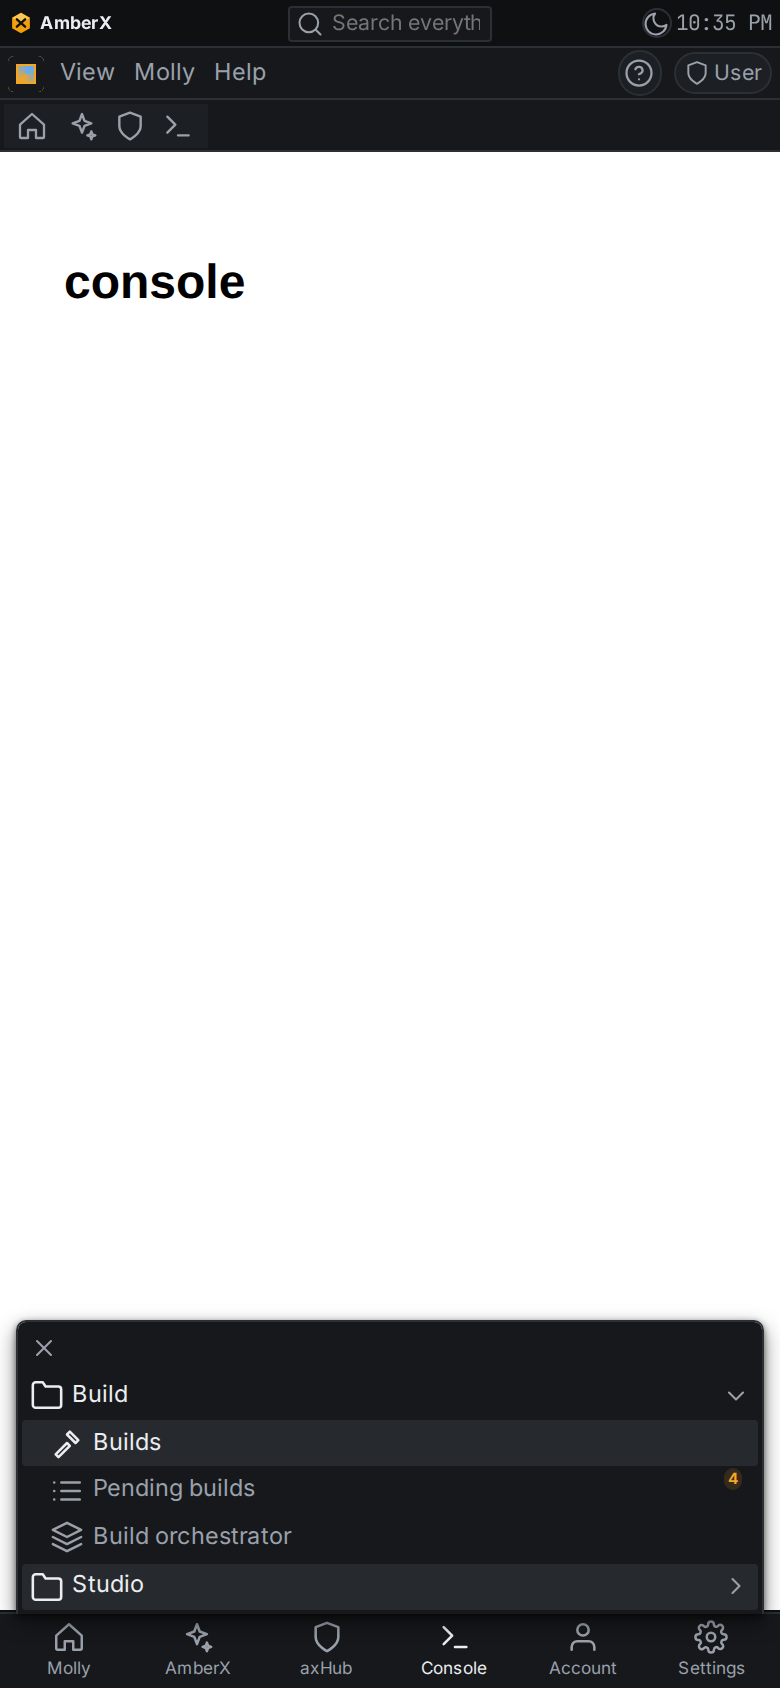
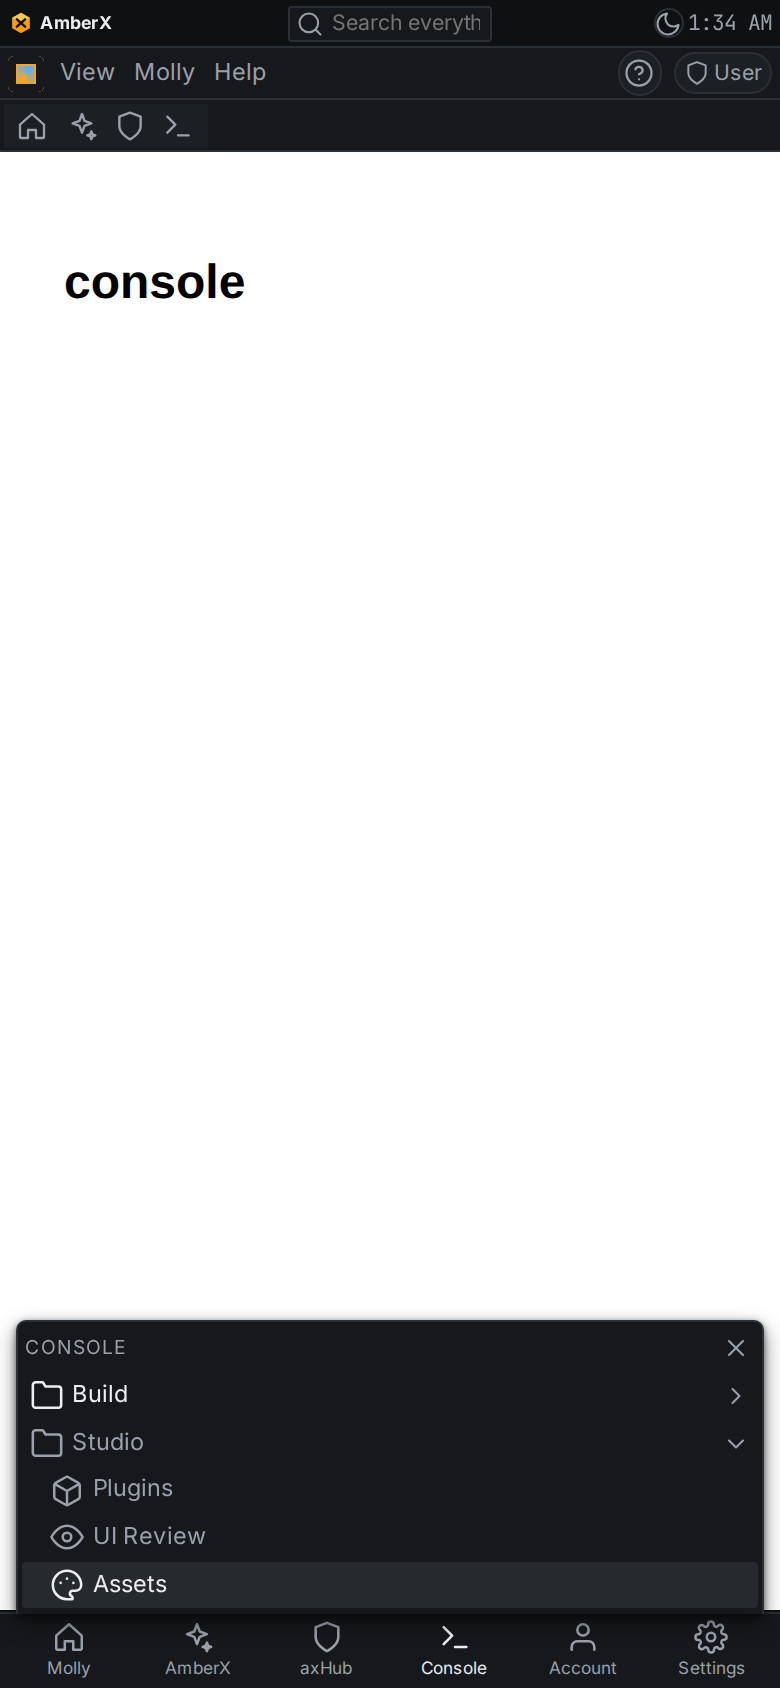
Molly nav: closing a sub menu stays closed; collapsed width from the font size
Follow-the-active-page now runs only when the page changes or its branch first appears,
so the phone sheet's Close and single mode inside a group work. Collapsed nav is
font size x 3.8 wide; collapse rules no longer touch the settings preview.

diff --git a/apps/amberx-droid/src/axf/ui/axf.css b/apps/amberx-droid/src/axf/ui/axf.css
@@ -579,11 +579,11 @@ button.fx-banner__badge:focus-visible { outline: 2px solid var(--fx-accent); out
 [data-fx-navs-set~='weight'] .fx-navs .fx-nav__item { font-weight: var(--fx-navs-weight); }
 [data-fx-navs-icons='off'] .fx-navs .fx-nav:not(.fx-nav--rail) .fx-nav__item > .fx-icon:first-child { display: none; }
 /* collapsed to icons: labels, chevrons, badges and sub menus fold away (a tap on a group opens the nav again) */
-[data-fx-navs-collapsed='on'] .fx-navs .fx-nav__text, [data-fx-navs-collapsed='on'] .fx-navs .fx-nav__label, [data-fx-navs-collapsed='on'] .fx-navs .fx-nav__header,
-[data-fx-navs-collapsed='on'] .fx-navs .fx-nav__chev, [data-fx-navs-collapsed='on'] .fx-navs .fx-nav__badge, [data-fx-navs-collapsed='on'] .fx-navs .fx-nav__sub { display: none; }
-[data-fx-navs-collapsed='on'] .fx-navs .fx-nav { padding-inline: var(--fx-dens-gap-md); align-items: stretch; }
-[data-fx-navs-collapsed='on'] .fx-navs .fx-nav__item { justify-content: center; padding-inline: 0; }
-[data-fx-navs-collapsed='on'] .fx-navs .fx-nav__head { justify-content: center; }
+[data-fx-navs-collapsed='on'] .fx-region--nav .fx-navs .fx-nav__text, [data-fx-navs-collapsed='on'] .fx-region--nav .fx-navs .fx-nav__label, [data-fx-navs-collapsed='on'] .fx-region--nav .fx-navs .fx-nav__header,
+[data-fx-navs-collapsed='on'] .fx-region--nav .fx-navs .fx-nav__chev, [data-fx-navs-collapsed='on'] .fx-region--nav .fx-navs .fx-nav__badge, [data-fx-navs-collapsed='on'] .fx-region--nav .fx-navs .fx-nav__sub { display: none; }
+[data-fx-navs-collapsed='on'] .fx-region--nav .fx-navs .fx-nav { padding-inline: var(--fx-dens-gap-md); align-items: stretch; }
+[data-fx-navs-collapsed='on'] .fx-region--nav .fx-navs .fx-nav__item { justify-content: center; padding-inline: 0; }
+[data-fx-navs-collapsed='on'] .fx-region--nav .fx-navs .fx-nav__head { justify-content: center; }
 /* the resize edge */
 .fx-nav__resize { position: absolute; top: 0; bottom: 0; right: calc(var(--fx-space) * -0.5); width: var(--fx-space); cursor: col-resize; z-index: 2; }
 .fx-region--nav[data-side='right'] .fx-nav__resize { right: auto; left: calc(var(--fx-space) * -0.5); }

diff --git a/apps/axhub-web/src/axf/ui/axf.css b/apps/axhub-web/src/axf/ui/axf.css
@@ -579,11 +579,11 @@ button.fx-banner__badge:focus-visible { outline: 2px solid var(--fx-accent); out
 [data-fx-navs-set~='weight'] .fx-navs .fx-nav__item { font-weight: var(--fx-navs-weight); }
 [data-fx-navs-icons='off'] .fx-navs .fx-nav:not(.fx-nav--rail) .fx-nav__item > .fx-icon:first-child { display: none; }
 /* collapsed to icons: labels, chevrons, badges and sub menus fold away (a tap on a group opens the nav again) */
-[data-fx-navs-collapsed='on'] .fx-navs .fx-nav__text, [data-fx-navs-collapsed='on'] .fx-navs .fx-nav__label, [data-fx-navs-collapsed='on'] .fx-navs .fx-nav__header,
-[data-fx-navs-collapsed='on'] .fx-navs .fx-nav__chev, [data-fx-navs-collapsed='on'] .fx-navs .fx-nav__badge, [data-fx-navs-collapsed='on'] .fx-navs .fx-nav__sub { display: none; }
-[data-fx-navs-collapsed='on'] .fx-navs .fx-nav { padding-inline: var(--fx-dens-gap-md); align-items: stretch; }
-[data-fx-navs-collapsed='on'] .fx-navs .fx-nav__item { justify-content: center; padding-inline: 0; }
-[data-fx-navs-collapsed='on'] .fx-navs .fx-nav__head { justify-content: center; }
+[data-fx-navs-collapsed='on'] .fx-region--nav .fx-navs .fx-nav__text, [data-fx-navs-collapsed='on'] .fx-region--nav .fx-navs .fx-nav__label, [data-fx-navs-collapsed='on'] .fx-region--nav .fx-navs .fx-nav__header,
+[data-fx-navs-collapsed='on'] .fx-region--nav .fx-navs .fx-nav__chev, [data-fx-navs-collapsed='on'] .fx-region--nav .fx-navs .fx-nav__badge, [data-fx-navs-collapsed='on'] .fx-region--nav .fx-navs .fx-nav__sub { display: none; }
+[data-fx-navs-collapsed='on'] .fx-region--nav .fx-navs .fx-nav { padding-inline: var(--fx-dens-gap-md); align-items: stretch; }
+[data-fx-navs-collapsed='on'] .fx-region--nav .fx-navs .fx-nav__item { justify-content: center; padding-inline: 0; }
+[data-fx-navs-collapsed='on'] .fx-region--nav .fx-navs .fx-nav__head { justify-content: center; }
 /* the resize edge */
 .fx-nav__resize { position: absolute; top: 0; bottom: 0; right: calc(var(--fx-space) * -0.5); width: var(--fx-space); cursor: col-resize; z-index: 2; }
 .fx-region--nav[data-side='right'] .fx-nav__resize { right: auto; left: calc(var(--fx-space) * -0.5); }

diff --git a/apps/console-web/src/axf/ui/axf.css b/apps/console-web/src/axf/ui/axf.css
@@ -579,11 +579,11 @@ button.fx-banner__badge:focus-visible { outline: 2px solid var(--fx-accent); out
 [data-fx-navs-set~='weight'] .fx-navs .fx-nav__item { font-weight: var(--fx-navs-weight); }
 [data-fx-navs-icons='off'] .fx-navs .fx-nav:not(.fx-nav--rail) .fx-nav__item > .fx-icon:first-child { display: none; }
 /* collapsed to icons: labels, chevrons, badges and sub menus fold away (a tap on a group opens the nav again) */
-[data-fx-navs-collapsed='on'] .fx-navs .fx-nav__text, [data-fx-navs-collapsed='on'] .fx-navs .fx-nav__label, [data-fx-navs-collapsed='on'] .fx-navs .fx-nav__header,
-[data-fx-navs-collapsed='on'] .fx-navs .fx-nav__chev, [data-fx-navs-collapsed='on'] .fx-navs .fx-nav__badge, [data-fx-navs-collapsed='on'] .fx-navs .fx-nav__sub { display: none; }
-[data-fx-navs-collapsed='on'] .fx-navs .fx-nav { padding-inline: var(--fx-dens-gap-md); align-items: stretch; }
-[data-fx-navs-collapsed='on'] .fx-navs .fx-nav__item { justify-content: center; padding-inline: 0; }
-[data-fx-navs-collapsed='on'] .fx-navs .fx-nav__head { justify-content: center; }
+[data-fx-navs-collapsed='on'] .fx-region--nav .fx-navs .fx-nav__text, [data-fx-navs-collapsed='on'] .fx-region--nav .fx-navs .fx-nav__label, [data-fx-navs-collapsed='on'] .fx-region--nav .fx-navs .fx-nav__header,
+[data-fx-navs-collapsed='on'] .fx-region--nav .fx-navs .fx-nav__chev, [data-fx-navs-collapsed='on'] .fx-region--nav .fx-navs .fx-nav__badge, [data-fx-navs-collapsed='on'] .fx-region--nav .fx-navs .fx-nav__sub { display: none; }
+[data-fx-navs-collapsed='on'] .fx-region--nav .fx-navs .fx-nav { padding-inline: var(--fx-dens-gap-md); align-items: stretch; }
+[data-fx-navs-collapsed='on'] .fx-region--nav .fx-navs .fx-nav__item { justify-content: center; padding-inline: 0; }
+[data-fx-navs-collapsed='on'] .fx-region--nav .fx-navs .fx-nav__head { justify-content: center; }
 /* the resize edge */
 .fx-nav__resize { position: absolute; top: 0; bottom: 0; right: calc(var(--fx-space) * -0.5); width: var(--fx-space); cursor: col-resize; z-index: 2; }
 .fx-region--nav[data-side='right'] .fx-nav__resize { right: auto; left: calc(var(--fx-space) * -0.5); }

diff --git a/apps/molly/src/axf/ui/axf.css b/apps/molly/src/axf/ui/axf.css
@@ -579,11 +579,11 @@ button.fx-banner__badge:focus-visible { outline: 2px solid var(--fx-accent); out
 [data-fx-navs-set~='weight'] .fx-navs .fx-nav__item { font-weight: var(--fx-navs-weight); }
 [data-fx-navs-icons='off'] .fx-navs .fx-nav:not(.fx-nav--rail) .fx-nav__item > .fx-icon:first-child { display: none; }
 /* collapsed to icons: labels, chevrons, badges and sub menus fold away (a tap on a group opens the nav again) */
-[data-fx-navs-collapsed='on'] .fx-navs .fx-nav__text, [data-fx-navs-collapsed='on'] .fx-navs .fx-nav__label, [data-fx-navs-collapsed='on'] .fx-navs .fx-nav__header,
-[data-fx-navs-collapsed='on'] .fx-navs .fx-nav__chev, [data-fx-navs-collapsed='on'] .fx-navs .fx-nav__badge, [data-fx-navs-collapsed='on'] .fx-navs .fx-nav__sub { display: none; }
-[data-fx-navs-collapsed='on'] .fx-navs .fx-nav { padding-inline: var(--fx-dens-gap-md); align-items: stretch; }
-[data-fx-navs-collapsed='on'] .fx-navs .fx-nav__item { justify-content: center; padding-inline: 0; }
-[data-fx-navs-collapsed='on'] .fx-navs .fx-nav__head { justify-content: center; }
+[data-fx-navs-collapsed='on'] .fx-region--nav .fx-navs .fx-nav__text, [data-fx-navs-collapsed='on'] .fx-region--nav .fx-navs .fx-nav__label, [data-fx-navs-collapsed='on'] .fx-region--nav .fx-navs .fx-nav__header,
+[data-fx-navs-collapsed='on'] .fx-region--nav .fx-navs .fx-nav__chev, [data-fx-navs-collapsed='on'] .fx-region--nav .fx-navs .fx-nav__badge, [data-fx-navs-collapsed='on'] .fx-region--nav .fx-navs .fx-nav__sub { display: none; }
+[data-fx-navs-collapsed='on'] .fx-region--nav .fx-navs .fx-nav { padding-inline: var(--fx-dens-gap-md); align-items: stretch; }
+[data-fx-navs-collapsed='on'] .fx-region--nav .fx-navs .fx-nav__item { justify-content: center; padding-inline: 0; }
+[data-fx-navs-collapsed='on'] .fx-region--nav .fx-navs .fx-nav__head { justify-content: center; }
 /* the resize edge */
 .fx-nav__resize { position: absolute; top: 0; bottom: 0; right: calc(var(--fx-space) * -0.5); width: var(--fx-space); cursor: col-resize; z-index: 2; }
 .fx-region--nav[data-side='right'] .fx-nav__resize { right: auto; left: calc(var(--fx-space) * -0.5); }

diff --git a/framework/ui/axf.css b/framework/ui/axf.css
@@ -579,11 +579,11 @@ button.fx-banner__badge:focus-visible { outline: 2px solid var(--fx-accent); out
 [data-fx-navs-set~='weight'] .fx-navs .fx-nav__item { font-weight: var(--fx-navs-weight); }
 [data-fx-navs-icons='off'] .fx-navs .fx-nav:not(.fx-nav--rail) .fx-nav__item > .fx-icon:first-child { display: none; }
 /* collapsed to icons: labels, chevrons, badges and sub menus fold away (a tap on a group opens the nav again) */
-[data-fx-navs-collapsed='on'] .fx-navs .fx-nav__text, [data-fx-navs-collapsed='on'] .fx-navs .fx-nav__label, [data-fx-navs-collapsed='on'] .fx-navs .fx-nav__header,
-[data-fx-navs-collapsed='on'] .fx-navs .fx-nav__chev, [data-fx-navs-collapsed='on'] .fx-navs .fx-nav__badge, [data-fx-navs-collapsed='on'] .fx-navs .fx-nav__sub { display: none; }
-[data-fx-navs-collapsed='on'] .fx-navs .fx-nav { padding-inline: var(--fx-dens-gap-md); align-items: stretch; }
-[data-fx-navs-collapsed='on'] .fx-navs .fx-nav__item { justify-content: center; padding-inline: 0; }
-[data-fx-navs-collapsed='on'] .fx-navs .fx-nav__head { justify-content: center; }
+[data-fx-navs-collapsed='on'] .fx-region--nav .fx-navs .fx-nav__text, [data-fx-navs-collapsed='on'] .fx-region--nav .fx-navs .fx-nav__label, [data-fx-navs-collapsed='on'] .fx-region--nav .fx-navs .fx-nav__header,
+[data-fx-navs-collapsed='on'] .fx-region--nav .fx-navs .fx-nav__chev, [data-fx-navs-collapsed='on'] .fx-region--nav .fx-navs .fx-nav__badge, [data-fx-navs-collapsed='on'] .fx-region--nav .fx-navs .fx-nav__sub { display: none; }
+[data-fx-navs-collapsed='on'] .fx-region--nav .fx-navs .fx-nav { padding-inline: var(--fx-dens-gap-md); align-items: stretch; }
+[data-fx-navs-collapsed='on'] .fx-region--nav .fx-navs .fx-nav__item { justify-content: center; padding-inline: 0; }
+[data-fx-navs-collapsed='on'] .fx-region--nav .fx-navs .fx-nav__head { justify-content: center; }
 /* the resize edge */
 .fx-nav__resize { position: absolute; top: 0; bottom: 0; right: calc(var(--fx-space) * -0.5); width: var(--fx-space); cursor: col-resize; z-index: 2; }
 .fx-region--nav[data-side='right'] .fx-nav__resize { right: auto; left: calc(var(--fx-space) * -0.5); }

diff --git a/apps/amberx-droid/src/axf/react/components/NavTree.tsx b/apps/amberx-droid/src/axf/react/components/NavTree.tsx
@@ -1,7 +1,7 @@
 import { useCallback, useEffect, useMemo, useRef, useState, type CSSProperties, type PointerEvent as ReactPointerEvent } from 'react';
 import type { NavItem } from '../../core';
 import { NAV_OPEN_KEY, NAV_COLLAPSED_KEY, NAV_WIDTH_KEY } from '../../core/runtime';
-import { navAccent, navArrange, navContains, navFollow, navToggle, parseNavOpen, type NavStyleData } from '../../core/engines/navstyle';
+import { navAccent, navArrange, navContains, navFollow, navPathTo, navToggle, parseNavOpen, type NavStyleData } from '../../core/engines/navstyle';
 import { useAxfState, useRuntime } from '../AxfProvider';
 import type { ViewMap } from '../AppShell';
 import { Icon } from './Icon';
@@ -63,10 +63,17 @@ export function NavTree({ sections, views, style, orient, header }: { sections: 
   }, [rt, style.behavior.remember]);
   const openRef = useRef(open); openRef.current = open;
   // the page moved: its branch opens (followActive), the others close (autoCollapse)
+  // Only when the page changes or its branch first shows up (an app's nav arrives): a re-render must never reopen
+  // what the user just closed.
+  const followed = useRef('');
+  const branchKey = navPathTo(tree, view).join('/');
   useEffect(() => {
+    const key = `${view}|${branchKey}`;
+    if (followed.current === key) return;
+    followed.current = key;
     const next = navFollow(tree, openRef.current, view, style);
     if (next.join('|') !== openRef.current.join('|')) setOpen(next);
-  }, [view, tree, style, setOpen]);
+  }, [view, branchKey, tree, style, setOpen]);
 
   const toggle = (id: string, want?: boolean) => setOpen(navToggle(tree, openRef.current, id, style.behavior.single, want));
   const hover = style.behavior.openOn === 'hover' && !narrow;

diff --git a/apps/axhub-web/src/axf/react/components/NavTree.tsx b/apps/axhub-web/src/axf/react/components/NavTree.tsx
@@ -1,7 +1,7 @@
 import { useCallback, useEffect, useMemo, useRef, useState, type CSSProperties, type PointerEvent as ReactPointerEvent } from 'react';
 import type { NavItem } from '../../core';
 import { NAV_OPEN_KEY, NAV_COLLAPSED_KEY, NAV_WIDTH_KEY } from '../../core/runtime';
-import { navAccent, navArrange, navContains, navFollow, navToggle, parseNavOpen, type NavStyleData } from '../../core/engines/navstyle';
+import { navAccent, navArrange, navContains, navFollow, navPathTo, navToggle, parseNavOpen, type NavStyleData } from '../../core/engines/navstyle';
 import { useAxfState, useRuntime } from '../AxfProvider';
 import type { ViewMap } from '../AppShell';
 import { Icon } from './Icon';
@@ -63,10 +63,17 @@ export function NavTree({ sections, views, style, orient, header }: { sections: 
   }, [rt, style.behavior.remember]);
   const openRef = useRef(open); openRef.current = open;
   // the page moved: its branch opens (followActive), the others close (autoCollapse)
+  // Only when the page changes or its branch first shows up (an app's nav arrives): a re-render must never reopen
+  // what the user just closed.
+  const followed = useRef('');
+  const branchKey = navPathTo(tree, view).join('/');
   useEffect(() => {
+    const key = `${view}|${branchKey}`;
+    if (followed.current === key) return;
+    followed.current = key;
     const next = navFollow(tree, openRef.current, view, style);
     if (next.join('|') !== openRef.current.join('|')) setOpen(next);
-  }, [view, tree, style, setOpen]);
+  }, [view, branchKey, tree, style, setOpen]);
 
   const toggle = (id: string, want?: boolean) => setOpen(navToggle(tree, openRef.current, id, style.behavior.single, want));
   const hover = style.behavior.openOn === 'hover' && !narrow;

diff --git a/apps/console-web/src/axf/react/components/NavTree.tsx b/apps/console-web/src/axf/react/components/NavTree.tsx
@@ -1,7 +1,7 @@
 import { useCallback, useEffect, useMemo, useRef, useState, type CSSProperties, type PointerEvent as ReactPointerEvent } from 'react';
 import type { NavItem } from '../../core';
 import { NAV_OPEN_KEY, NAV_COLLAPSED_KEY, NAV_WIDTH_KEY } from '../../core/runtime';
-import { navAccent, navArrange, navContains, navFollow, navToggle, parseNavOpen, type NavStyleData } from '../../core/engines/navstyle';
+import { navAccent, navArrange, navContains, navFollow, navPathTo, navToggle, parseNavOpen, type NavStyleData } from '../../core/engines/navstyle';
 import { useAxfState, useRuntime } from '../AxfProvider';
 import type { ViewMap } from '../AppShell';
 import { Icon } from './Icon';
@@ -63,10 +63,17 @@ export function NavTree({ sections, views, style, orient, header }: { sections: 
   }, [rt, style.behavior.remember]);
   const openRef = useRef(open); openRef.current = open;
   // the page moved: its branch opens (followActive), the others close (autoCollapse)
+  // Only when the page changes or its branch first shows up (an app's nav arrives): a re-render must never reopen
+  // what the user just closed.
+  const followed = useRef('');
+  const branchKey = navPathTo(tree, view).join('/');
   useEffect(() => {
+    const key = `${view}|${branchKey}`;
+    if (followed.current === key) return;
+    followed.current = key;
     const next = navFollow(tree, openRef.current, view, style);
     if (next.join('|') !== openRef.current.join('|')) setOpen(next);
-  }, [view, tree, style, setOpen]);
+  }, [view, branchKey, tree, style, setOpen]);
 
   const toggle = (id: string, want?: boolean) => setOpen(navToggle(tree, openRef.current, id, style.behavior.single, want));
   const hover = style.behavior.openOn === 'hover' && !narrow;

diff --git a/apps/molly/src/axf/react/components/NavTree.tsx b/apps/molly/src/axf/react/components/NavTree.tsx
@@ -1,7 +1,7 @@
 import { useCallback, useEffect, useMemo, useRef, useState, type CSSProperties, type PointerEvent as ReactPointerEvent } from 'react';
 import type { NavItem } from '../../core';
 import { NAV_OPEN_KEY, NAV_COLLAPSED_KEY, NAV_WIDTH_KEY } from '../../core/runtime';
-import { navAccent, navArrange, navContains, navFollow, navToggle, parseNavOpen, type NavStyleData } from '../../core/engines/navstyle';
+import { navAccent, navArrange, navContains, navFollow, navPathTo, navToggle, parseNavOpen, type NavStyleData } from '../../core/engines/navstyle';
 import { useAxfState, useRuntime } from '../AxfProvider';
 import type { ViewMap } from '../AppShell';
 import { Icon } from './Icon';
@@ -63,10 +63,17 @@ export function NavTree({ sections, views, style, orient, header }: { sections: 
   }, [rt, style.behavior.remember]);
   const openRef = useRef(open); openRef.current = open;
   // the page moved: its branch opens (followActive), the others close (autoCollapse)
+  // Only when the page changes or its branch first shows up (an app's nav arrives): a re-render must never reopen
+  // what the user just closed.
+  const followed = useRef('');
+  const branchKey = navPathTo(tree, view).join('/');
   useEffect(() => {
+    const key = `${view}|${branchKey}`;
+    if (followed.current === key) return;
+    followed.current = key;
     const next = navFollow(tree, openRef.current, view, style);
     if (next.join('|') !== openRef.current.join('|')) setOpen(next);
-  }, [view, tree, style, setOpen]);
+  }, [view, branchKey, tree, style, setOpen]);
 
   const toggle = (id: string, want?: boolean) => setOpen(navToggle(tree, openRef.current, id, style.behavior.single, want));
   const hover = style.behavior.openOn === 'hover' && !narrow;

diff --git a/framework/react/components/NavTree.tsx b/framework/react/components/NavTree.tsx
@@ -1,7 +1,7 @@
 import { useCallback, useEffect, useMemo, useRef, useState, type CSSProperties, type PointerEvent as ReactPointerEvent } from 'react';
 import type { NavItem } from '../../core';
 import { NAV_OPEN_KEY, NAV_COLLAPSED_KEY, NAV_WIDTH_KEY } from '../../core/runtime';
-import { navAccent, navArrange, navContains, navFollow, navToggle, parseNavOpen, type NavStyleData } from '../../core/engines/navstyle';
+import { navAccent, navArrange, navContains, navFollow, navPathTo, navToggle, parseNavOpen, type NavStyleData } from '../../core/engines/navstyle';
 import { useAxfState, useRuntime } from '../AxfProvider';
 import type { ViewMap } from '../AppShell';
 import { Icon } from './Icon';
@@ -63,10 +63,17 @@ export function NavTree({ sections, views, style, orient, header }: { sections: 
   }, [rt, style.behavior.remember]);
   const openRef = useRef(open); openRef.current = open;
   // the page moved: its branch opens (followActive), the others close (autoCollapse)
+  // Only when the page changes or its branch first shows up (an app's nav arrives): a re-render must never reopen
+  // what the user just closed.
+  const followed = useRef('');
+  const branchKey = navPathTo(tree, view).join('/');
   useEffect(() => {
+    const key = `${view}|${branchKey}`;
+    if (followed.current === key) return;
+    followed.current = key;
     const next = navFollow(tree, openRef.current, view, style);
     if (next.join('|') !== openRef.current.join('|')) setOpen(next);
-  }, [view, tree, style, setOpen]);
+  }, [view, branchKey, tree, style, setOpen]);
 
   const toggle = (id: string, want?: boolean) => setOpen(navToggle(tree, openRef.current, id, style.behavior.single, want));
   const hover = style.behavior.openOn === 'hover' && !narrow;

diff --git a/apps/amberx-droid/src/axf/core/engines/navstyle.ts b/apps/amberx-droid/src/axf/core/engines/navstyle.ts
@@ -23,8 +23,8 @@ const kebab = (s: string) => s.replace(/[A-Z]/g, (c) => `-${c.toLowerCase()}`);
 export const navColorVar = (token: string) => `var(--fx-${kebab(token)})`;
 /** Item padding (block) per density, in multiples of the space unit. */
 const DENSITY_PY: Record<string, number> = { compact: 0.5, regular: 0.875, roomy: 1.25 };
-/** The width of a nav collapsed to its icons, in multiples of the space unit. */
-export const NAV_COLLAPSED_SPACE = 7;
+/** The width of a nav collapsed to its icons, in multiples of the font size (an icon plus its padding at any density). */
+export const NAV_COLLAPSED_EM = 3.8;
 const COLOR_SLOTS = ['background', 'text', 'hover', 'active', 'activeText', 'submenu', 'accent'] as const;
 
 export interface NavStyleState {
@@ -68,7 +68,7 @@ export function navStyleOutput(raw: unknown, state: NavStyleState = {}): StyleOu
   vars['--fx-navs-dur'] = off ? '0ms' : s.animation.durationMs ? `${s.animation.durationMs}ms` : 'var(--fx-motion)';
   vars['--fx-navs-ease'] = s.animation.easing === 'theme' ? 'var(--fx-ease)' : MOTION_EASE[s.animation.easing] ?? MOTION_EASE.standard!;
   vars['--fx-navs-stagger'] = off ? '0ms' : `${s.animation.staggerMs}ms`;
-  if (state.collapsed && s.width.collapsible) vars['--fx-layout-nav-width'] = `calc(var(--fx-space) * ${NAV_COLLAPSED_SPACE})`;
+  if (state.collapsed && s.width.collapsible) vars['--fx-layout-nav-width'] = `calc(var(--fx-font-size) * ${NAV_COLLAPSED_EM})`;
   else { const w = navWidth(s, state); if (w) vars['--fx-layout-nav-width'] = `${w}px`; }
   return {
     vars,

diff --git a/apps/axhub-web/src/axf/core/engines/navstyle.ts b/apps/axhub-web/src/axf/core/engines/navstyle.ts
@@ -23,8 +23,8 @@ const kebab = (s: string) => s.replace(/[A-Z]/g, (c) => `-${c.toLowerCase()}`);
 export const navColorVar = (token: string) => `var(--fx-${kebab(token)})`;
 /** Item padding (block) per density, in multiples of the space unit. */
 const DENSITY_PY: Record<string, number> = { compact: 0.5, regular: 0.875, roomy: 1.25 };
-/** The width of a nav collapsed to its icons, in multiples of the space unit. */
-export const NAV_COLLAPSED_SPACE = 7;
+/** The width of a nav collapsed to its icons, in multiples of the font size (an icon plus its padding at any density). */
+export const NAV_COLLAPSED_EM = 3.8;
 const COLOR_SLOTS = ['background', 'text', 'hover', 'active', 'activeText', 'submenu', 'accent'] as const;
 
 export interface NavStyleState {
@@ -68,7 +68,7 @@ export function navStyleOutput(raw: unknown, state: NavStyleState = {}): StyleOu
   vars['--fx-navs-dur'] = off ? '0ms' : s.animation.durationMs ? `${s.animation.durationMs}ms` : 'var(--fx-motion)';
   vars['--fx-navs-ease'] = s.animation.easing === 'theme' ? 'var(--fx-ease)' : MOTION_EASE[s.animation.easing] ?? MOTION_EASE.standard!;
   vars['--fx-navs-stagger'] = off ? '0ms' : `${s.animation.staggerMs}ms`;
-  if (state.collapsed && s.width.collapsible) vars['--fx-layout-nav-width'] = `calc(var(--fx-space) * ${NAV_COLLAPSED_SPACE})`;
+  if (state.collapsed && s.width.collapsible) vars['--fx-layout-nav-width'] = `calc(var(--fx-font-size) * ${NAV_COLLAPSED_EM})`;
   else { const w = navWidth(s, state); if (w) vars['--fx-layout-nav-width'] = `${w}px`; }
   return {
     vars,
